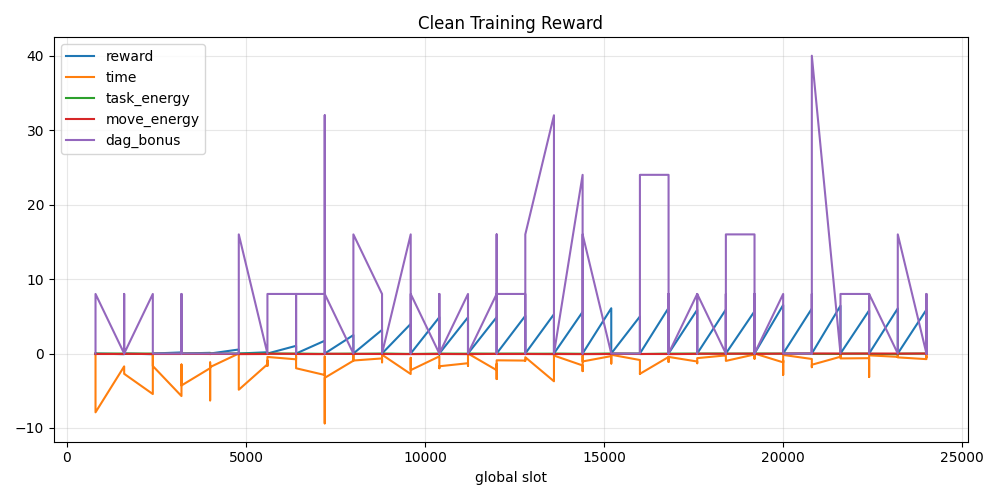
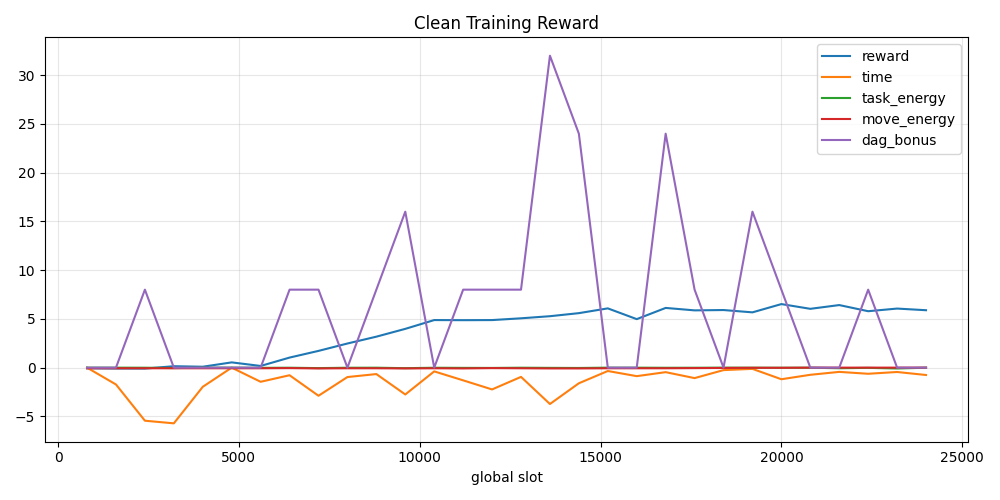
Fix multi-env plotting: deduplicate per-lane rows so reward curves don't oscillate
Synchronous multisample logs write one row per environment per update; only the first row carries ppo_* fields, and _number(None)->0 made reward curves oscillate between real values and zeros. plot_clean_metrics now deduplicates to one row per update when ppo_update_step is missing in some rows, and export_clean_metrics_tensorboard skips rows without the step key. The 4-env horizon-200 reward curve now shows a clean rise to a 6.0+/-0.27 plateau (30 points).

diff --git a/scripts/plot_clean_metrics.py b/scripts/plot_clean_metrics.py
@@ -103,6 +103,16 @@ def plot_clean_metrics(
     summary = read_json(summary_json) if summary_json is not None and Path(summary_json).exists() else {}
     if not rows and not summary:
         raise FileNotFoundError("No clean metrics JSONL or summary JSON found for plotting.")
+    # Synchronous multisample logs write one row per environment per update;
+    # only the first row of each update carries the ppo_* statistics, while the
+    # other rows leave them None (rendered as 0.0 by _number). Deduplicate to
+    # one row per update so reward/entropy curves do not oscillate between real
+    # values and zero placeholders. Eval logs (no ppo_update_step at all) and
+    # single-env training logs are unaffected.
+    if rows and any(row.get("ppo_update_step") is not None for row in rows) and any(
+        row.get("ppo_update_step") is None for row in rows
+    ):
+        rows = [row for row in rows if row.get("ppo_update_step") is not None]
     is_eval = _looks_like_eval(rows, summary, metrics_jsonl)
     generated = (
         _plot_eval(rows=rows, summary=summary, output_dir=output_dir, prefix=prefix, file_format=file_format, plt=plt)

diff --git a/scripts/export_clean_metrics_tensorboard.py b/scripts/export_clean_metrics_tensorboard.py
@@ -28,6 +28,10 @@ TOP_LEVEL_SCALARS = [
     "reward",
     "ppo_rollout_reward_total",
     "ppo_rollout_reward_mean",
+    "reward_time_penalty",
+    "reward_task_energy_penalty",
+    "reward_movement_energy_penalty",
+    "reward_completed_dag_bonus",
     "DAG_completion_rate",
     "average_dag_flowtime",
     "avg_uav_queue_length",
@@ -152,7 +156,10 @@ def main(argv: list[str] | None = None) -> int:
     for row_index, row in enumerate(rows):
         step_value = row.get(args.step_key)
         if step_value is None:
-            step_value = row_index
+            # Multi-env logs duplicate rows per update; only the first row of
+            # each update carries the step key. Skip the duplicate rows so the
+            # exported series has one point per update.
+            continue
         step = int(float(step_value))
         for key in TOP_LEVEL_SCALARS + NESTED_SCALARS:
             value = _resolve_value(row, key)
